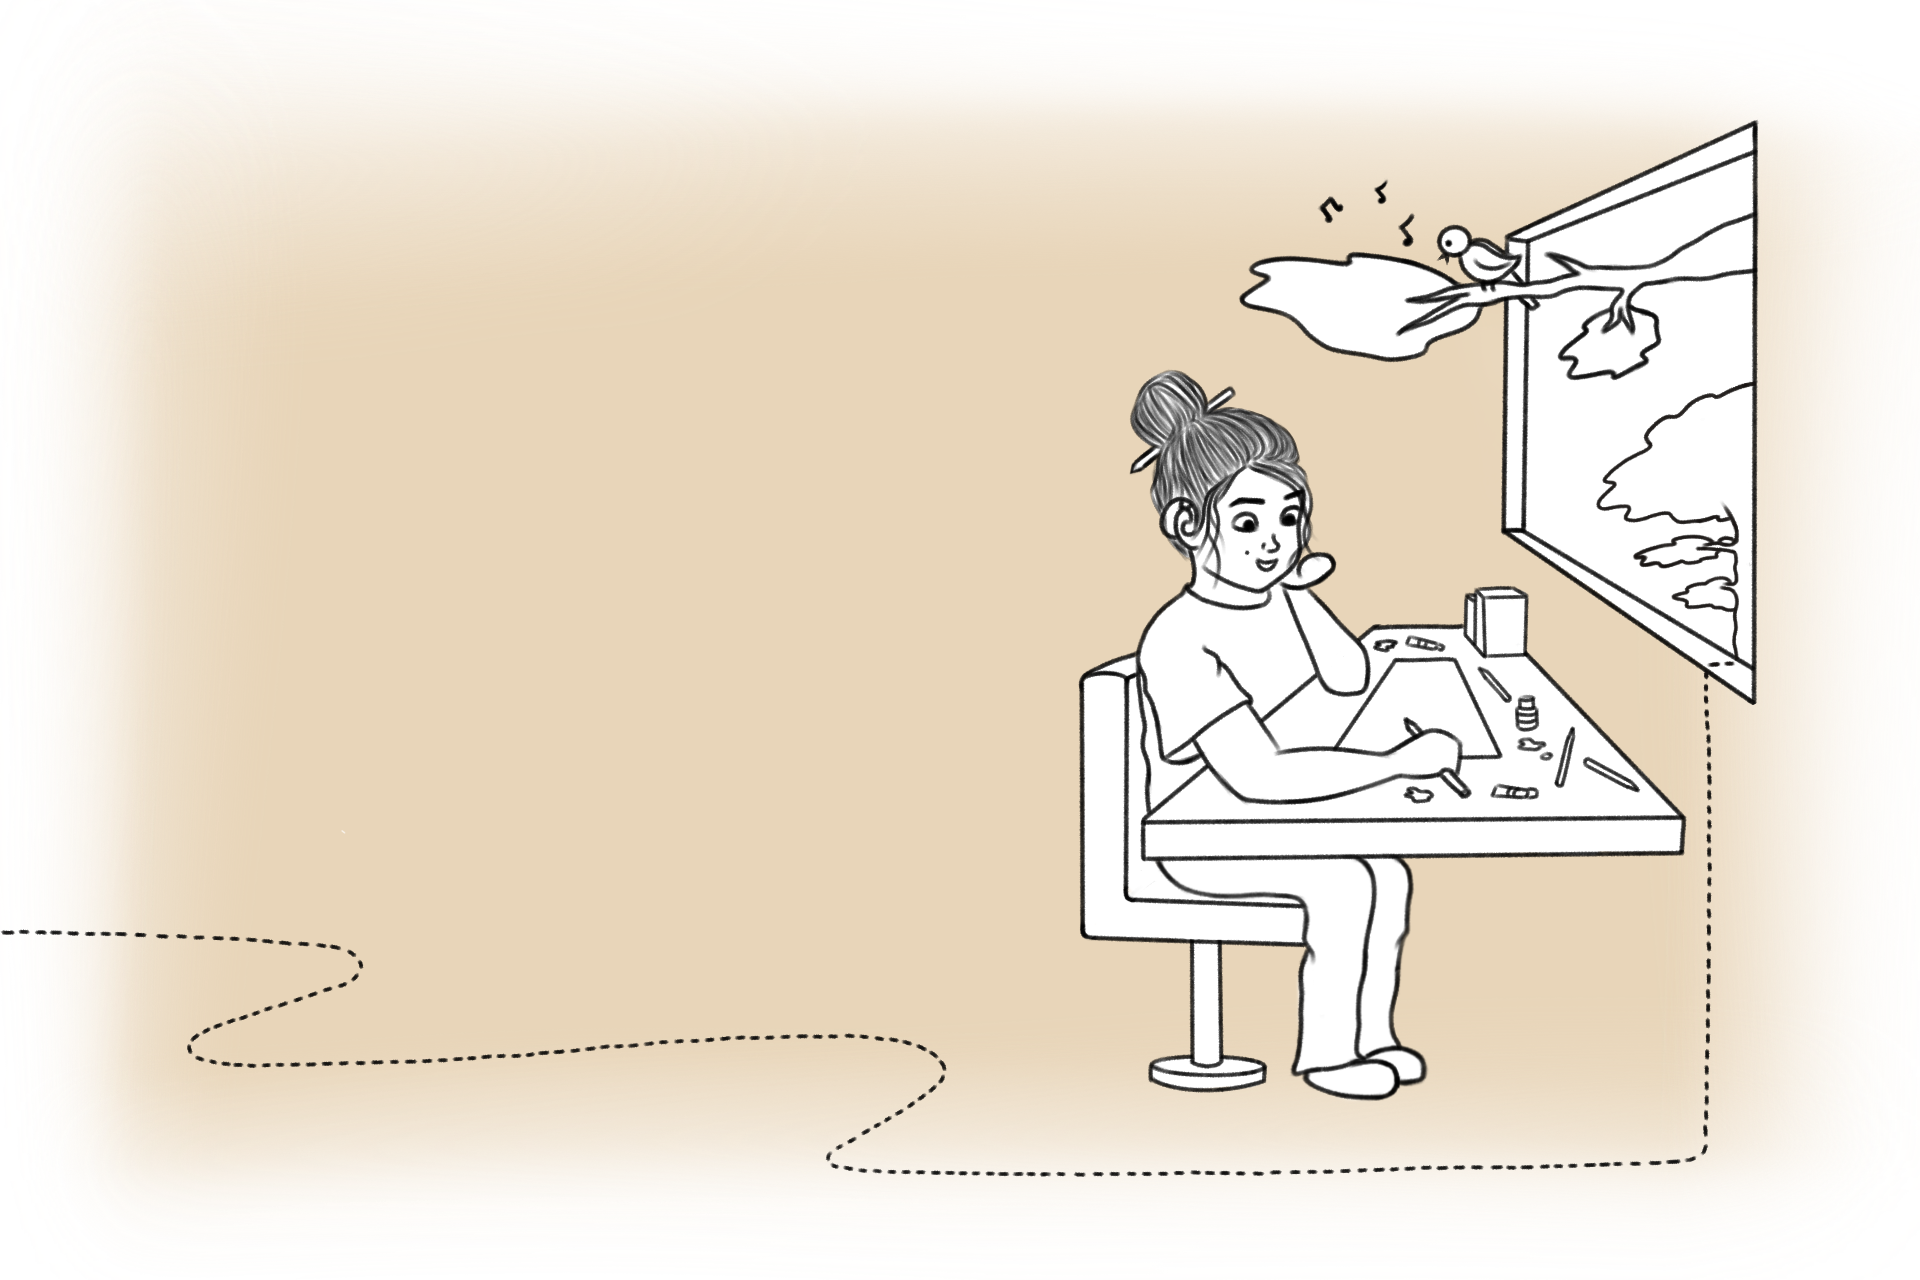
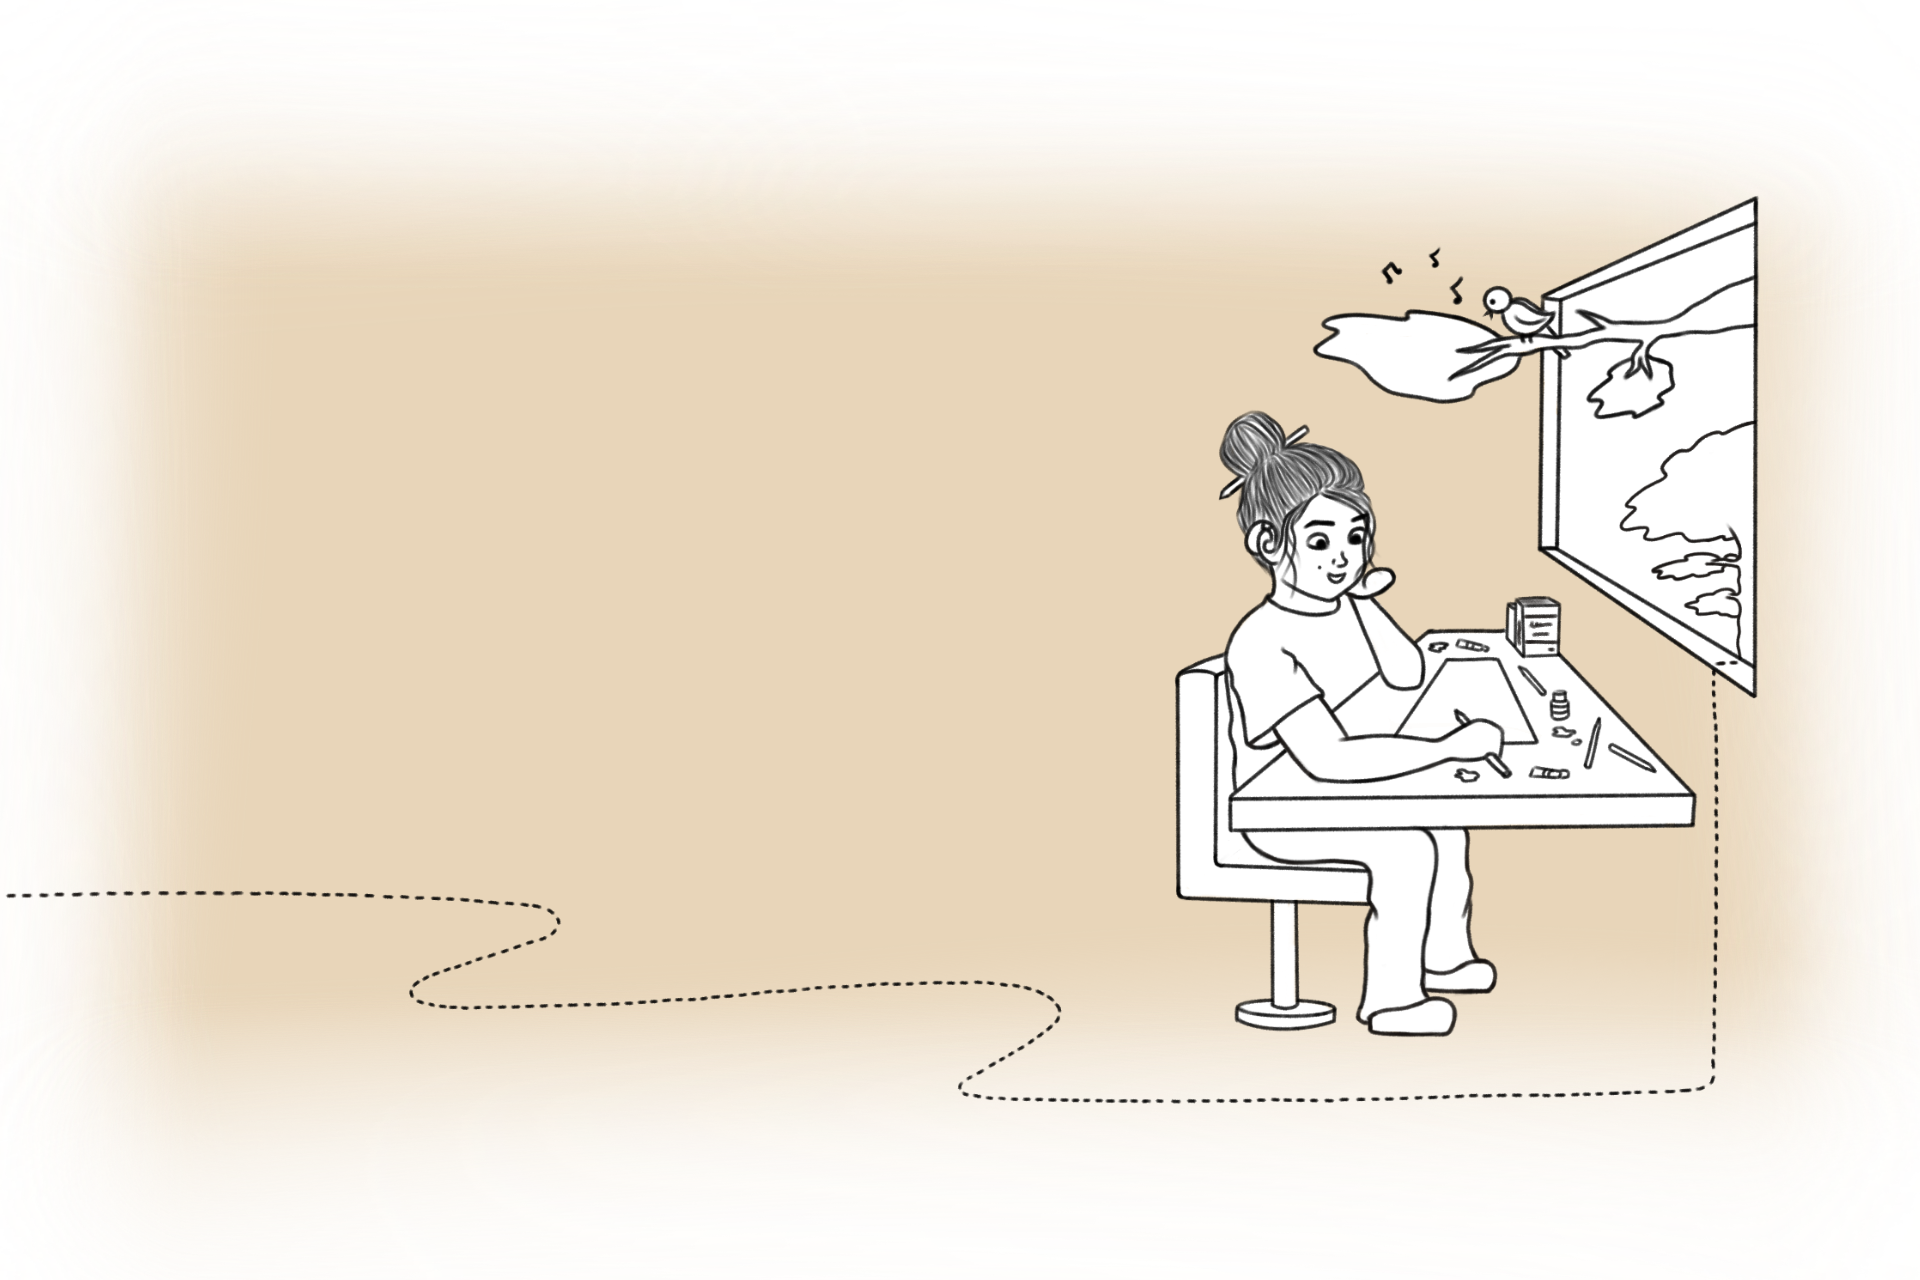
12th commit

Changed region(s): [[0.1562, 0.0938, 0.9375, 0.9062], [0.875, 0.75, 0.9062, 0.7812]]

diff --git a/assets/css/style.css b/assets/css/style.css
@@ -427,8 +427,8 @@ p {
 # Hero
 --------------------------------------------------------------*/
 #hero {
-  background: url("../img/home-bg3.png") no-repeat scroll center center/cover;
-  background-size: 1200px;
+  background: url("../img/home-bg2.png") no-repeat scroll center center/cover;
+  /* background-size: 1200px; */
   height: 100vh;
   width: 100%;
 }
